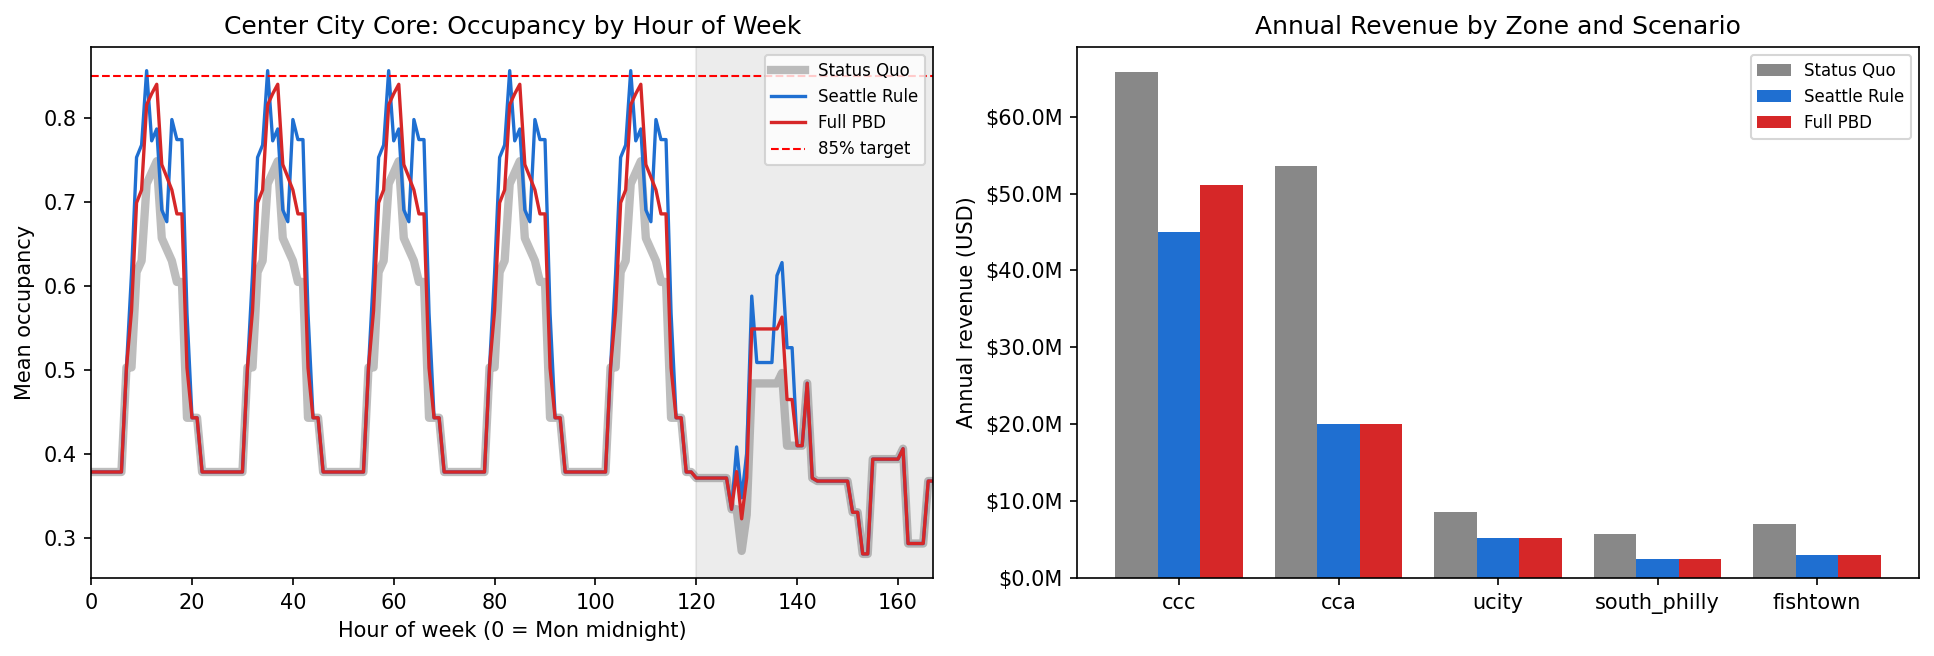
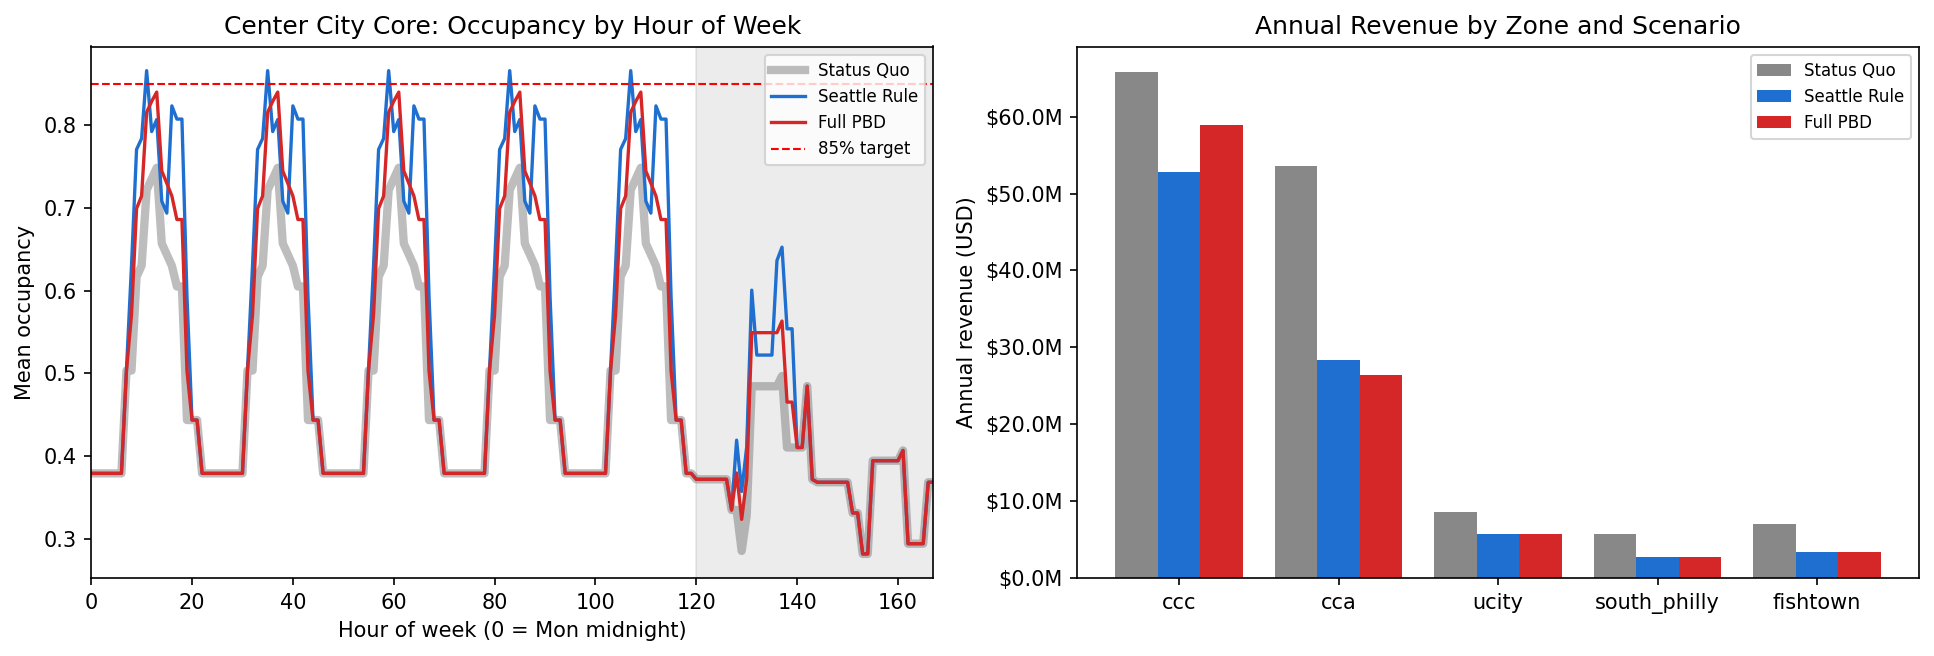
Regenerate scenario table, ranges and runs, Laffer figures under the occupancy elasticity prior (scripts 05, 06, 07)

diff --git a/outputs/reports/white_paper/tables/scenario_comparison.tex b/outputs/reports/white_paper/tables/scenario_comparison.tex
@@ -4,14 +4,14 @@
 \toprule
 \textbf{Metric} & \textbf{Status Quo} & \textbf{Seattle Rule} & \textbf{Full PBD} \\
 \midrule
-Annual meter revenue & \$140.67\,M & \$75.72\,M & \$81.86\,M \\
-Revenue to neighborhoods (PBD) & \$0.00\,M & \$0.00\,M & \$24.56\,M \\
+Annual meter revenue & \$140.67\,M & \$93.06\,M & \$97.22\,M \\
+Revenue to neighborhoods (PBD) & \$0.00\,M & \$0.00\,M & \$29.16\,M \\
 PBD share not payable after the General Fund minimum & \$0.00\,M & \$0.00\,M & \$0.00\,M \\
-Revenue to school district & \$105.67\,M & \$40.72\,M & \$22.30\,M \\
+Revenue to school district & \$105.67\,M & \$58.06\,M & \$33.05\,M \\
 Revenue to general fund & \$35.00\,M & \$35.00\,M & \$35.00\,M \\
-Mean meter rate --- CCC & \$4.00/hr & \$2.33/hr & \$2.74/hr \\
-Mean meter rate --- CCA & \$3.50/hr & \$1.00/hr & \$1.00/hr \\
-Parkers' surplus + meter revenue, annual change from status quo & \$0.00\,M & \$22.78\,M & \$21.76\,M \\
-Annual search cost of parkers, at 8.1 min per cruiser when blocks are full & \$0.51\,M & \$18.27\,M & \$17.08\,M \\
+Mean meter rate --- CCC & \$4.00/hr & \$2.67/hr & \$3.16/hr \\
+Mean meter rate --- CCA & \$3.50/hr & \$1.33/hr & \$1.23/hr \\
+Parkers' surplus + meter revenue, annual change from status quo & \$0.00\,M & \$31.13\,M & \$28.47\,M \\
+Annual search cost of parkers, at 8.1 min per cruiser when blocks are full & \$0.51\,M & \$29.77\,M & \$27.43\,M \\
 \bottomrule
 \end{tabularx}
